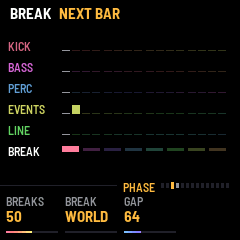
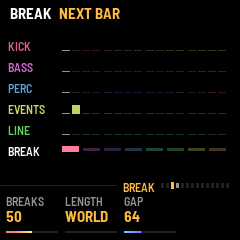
PHASE renamed BREAK (its K2, BREAK, now LENGTH; BUILD's K3 LENGTH too)

Changed region(s): [[0.2625, 0.8167, 0.4375, 0.875], [0.525, 0.7583, 0.6417, 0.8167]]

diff --git a/app/app.c b/app/app.c
@@ -14,7 +14,7 @@
  *   1 MAIN (HOME)            the macros: K1..K4 Energy, Detail, Dark, Drift
  *   2 GROOVE (HOME again)    K1..K4 Tempo (the world's, moved), Root, Fills (how often), Sit out (how often a part
  *                            rests a phrase)
- *   3 PHASE (SEQ)            the breaks: K1..K3 Breaks (how often one comes on its own; 0: only when cued), Break (its
+ *   3 BREAK (SEQ)            the breaks: K1..K3 Breaks (how often one comes on its own; 0: only when cued), Length (its
  *                            bars: the world's, 4..32), Gap (bars after a drop before one comes on its own)
  *   4 BUILD (SEQ again)      the builds: K1 Type (AUTO, or one held), K2 Ending (their last bar's: AUTO, or one held),
  *                            K3 Length (2, 4, 8 bars)
@@ -152,12 +152,12 @@ void app_init(void)
 }
 
 /* ------------------------------------------------------------------ pages --- */
-/* the pages in the panel's order: HOME the whole (MAIN, GROOVE); SEQ the sections (PHASE, BUILD); the top row's middle four the sounds (SEL the
+/* the pages in the panel's order: HOME the whole (MAIN, GROOVE); SEQ the sections (BREAK, BUILD); the top row's middle four the sounds (SEL the
  * kick and the bass, ENV the percussion, LFO the line, EDIT the events and the atmos); FX the echo; GLO the global.
  * A button with two or three pages steps through them */
-enum { PG_MAIN, PG_GROOVE, PG_PHASE, PG_BUILD, PG_KICK, PG_BASS, PG_PERC, PG_EVENTS, PG_LINE, PG_LINE_SEQ, PG_ATMOS, PG_MIX,
+enum { PG_MAIN, PG_GROOVE, PG_BREAK, PG_BUILD, PG_KICK, PG_BASS, PG_PERC, PG_EVENTS, PG_LINE, PG_LINE_SEQ, PG_ATMOS, PG_MIX,
        PG_ECHO, PG_GLOBAL, NPAGE };
-static const char *const PAGE_NAME[NPAGE] = {"MAIN", "GROOVE", "PHASE", "BUILD", "KICK", "BASS", "PERC", "EVENTS", "LINE",
+static const char *const PAGE_NAME[NPAGE] = {"MAIN", "GROOVE", "BREAK", "BUILD", "KICK", "BASS", "PERC", "EVENTS", "LINE",
                                              "LINE SEQ", "ATMOS", "MIX", "ECHO", "GLOBAL"};
 static const uint8_t PAGE_BTN[NPAGE] = {B_HOME, B_HOME, B_SEQ, B_SEQ, B_SEL, B_SEL, B_ENV, B_ENV, B_LFO, B_LFO, B_LFO, B_EDIT,
                                         B_FX, B_GLO};
@@ -184,7 +184,7 @@ static int page_par(int p, int k)
     static const int8_t PAR[NPAGE][4] = {
         {P_ENERGY, P_DETAIL, P_DARK, P_DRIFT},
         {P_TEMPO, P_ROOT, P_FILLS, P_SITOUT},
-        {P_BREAKS, P_BREAK_LEN, P_GAP, -1},              /* PHASE: the breaks */
+        {P_BREAKS, P_BREAK_LEN, P_GAP, -1},              /* BREAK: the breaks */
         {-1, -1, P_BUILD_LEN, -1},                       /* BUILD: K1 the builds' type, K2 their ending, K3 their bars */
         {P_KICK_TUNE, P_KICK_DRIVE, P_KICK_PUNCH, P_KICK_DECAY},   /* (the levels and the sends: MIX's) */
         {P_BASS_BITE, P_BASS_DECAY, P_BASS_LEN, P_BASS_DRIVE},   /* (as LINE's) */

diff --git a/app/dsp/psy.h b/app/dsp/psy.h
@@ -36,7 +36,7 @@ enum { P_ENERGY, P_DETAIL, P_DARK, P_DRIFT,                  /* MAIN: the macros
        P_ECHO_LEVEL, P_ECHO_FB, P_ECHO_TONE, P_ECHO_TIME,    /* ECHO */
        P_ATMOS_LEVEL, P_ATMOS_COLOUR, P_ATMOS_AIR, P_ATMOS_WASH,   /* ATMOS */
        P_LINE_LEVEL, P_LINE_DENSITY, P_LINE_LEN, P_LINE_MUTATE,   /* LINE */
-       P_BREAKS, P_BREAK_LEN, P_BUILD_LEN, P_GAP,            /* PHASE: how often a break comes on its own (0: only
+       P_BREAKS, P_BREAK_LEN, P_BUILD_LEN, P_GAP,            /* BREAK, BUILD: how often a break comes on its own (0: only
                                                               * cued), its bars, its build's, the bars after a drop */
        P_LINE_RANGE, P_LINE_SLIDE, P_LINE_BITE, P_LINE_DECAY,  /* LINE: how far its notes go, how many slide (its
                                                               * pattern page); its modulation's height, its fall */

diff --git a/app/dsp/psy.c b/app/dsp/psy.c
@@ -154,7 +154,7 @@ static const ps_param_t PAR[P_NPARAMS] = {
     {"LEVEL", 0, 100, 50}, {"FEEDBACK", 0, 90, 42}, {"TONE", 0, 100, 50}, {"TIME", 0, 3, 0},
     {"LEVEL", 0, 100, 70}, {"COLOUR", 0, 100, 50}, {"AIR", 0, 100, 50}, {"WASH", 0, 100, 50},
     {"LEVEL", 0, 100, 70}, {"DENSITY", 0, 100, 50}, {"LENGTH", 0, 100, 50}, {"MUTATE", 0, 100, 50},
-    {"BREAKS", 0, 100, 50}, {"BREAK", 0, 4, 0}, {"BUILD", 0, 2, 1}, {"GAP", 0, 3, 1},
+    {"BREAKS", 0, 100, 50}, {"LENGTH", 0, 4, 0}, {"LENGTH", 0, 2, 1}, {"GAP", 0, 3, 1},
     {"RANGE", 0, 100, 50}, {"SLIDE", 0, 100, 50}, {"BITE", 0, 100, 50}, {"DECAY", 0, 100, 50},
     {"SEND", 0, 100, 0}, {"SEND", 0, 100, 50},
     {"DECAY", 0, 100, 50}, {"DECAY", 0, 100, 50}, {"OPEN", 0, 100, 50}, {"DRIVE", 0, 100, 0},

diff --git a/app/docs/MANUAL.md b/app/docs/MANUAL.md
@@ -108,7 +108,7 @@ while the keys' loop plays. Lights, on the global page, sets how bright the glow
 | --- | --- |
 | SELECT | Turns through the 14 pages in order, from MAIN to GLOBAL. It stops at the ends. |
 | HOME | Goes to MAIN. Press again for GROOVE. Press again to go back. |
-| SEQ | Goes to PHASE: the sections. Press again for BUILD. Press again to go back. |
+| SEQ | Goes to BREAK: the sections. Press again for BUILD. Press again to go back. |
 | SEL | Goes to KICK. Press again for BASS. Press again to go back. |
 | ENV | Goes to PERC. Press again for EVENTS. Press again to go back. |
 | LFO | Goes to LINE. Press again for LINE SEQ. Again for ATMOS. Again to go back. On LINE and LINE SEQ, hold it for half a second and the line's phrase is drawn anew from the next bar, instead of moving on. |
@@ -130,7 +130,7 @@ ALGORITHM does something different on each page. On MAIN it takes the kit: forwa
 that are sounding, take another type from the next bar, and the more you turn in a bar the more change (up to three
 parts); back, the kit before, up to eight steps. On GROOVE it picks the shape of the bass. On ECHO it picks the kind of echo. On KICK, BASS, PERC, EVENTS, LINE, LINE SEQ and ATMOS it picks the type of
 that part, one of four to six, and the new type begins from the part's next note. On MIX it picks the type of the
-track TRACK has chosen. On PHASE, BUILD and GLOBAL it does nothing. The name
+track TRACK has chosen. On BREAK, BUILD and GLOBAL it does nothing. The name
 of the choice shows at the left of the rule. Types and shapes are listed on the pages they belong to. They are not
 saved (see 10. Saving).
 
@@ -156,8 +156,8 @@ world is as it is.
   the middle, brings in harsher notes and lets the line creep and reach higher. Lower is lighter and more open. 50.
 - DRIFT: how much changes by itself. Higher redraws more of the one-shot sounds at each phrase, lets the bass open and
   close further, rewrites more of the line, lets breaks come on their own more often (see 8. Sections), lets FILLS,
-  BREAK, GAP and a build's LENGTH stray more often from their lengths to the next one down or up (see GROOVE, PHASE and
-  BUILD). At 0 nothing
+  GAP and the LENGTH of breaks and builds stray more often from their lengths to the next one down or up (see GROOVE,
+  BREAK and BUILD). At 0 nothing
   moves by itself, no break comes on its own, and those lengths are exact; higher, the bass changes its type at more
   of the drops. 50.
 
@@ -186,16 +186,16 @@ ALGORITHM picks the shape of the bass. AUTO leaves it to the world: the kick on 
 three sixteenths after it, and now and then a gallop, an offbeat, or a bar of triplets in the worlds that have them.
 K-B-B-B holds the roll; GALLOP holds a gallop; OFFBEAT holds an offbeat. The new shape begins from the next bar.
 
-### 5.3 PHASE
+### 5.3 BREAK
 
-![The PHASE page: Breaks 50, Break WORLD, Gap 64](img/screen-phase.png "PHASE")
+![The BREAK page: Breaks 50, Length WORLD, Gap 64](img/screen-phase.png "BREAK")
 
 SEQ. The breaks: how the music moves through breaks, builds and drops by itself. Press SAVE and ARP to call them yourself (see 8.
 Sections).
 
 - BREAKS: how often a break comes on its own. At 0 it says CUED: a break comes only when you call it. Higher is more
   often, and DRIFT scales it. 50.
-- BREAK: how long a break that comes on its own usually lasts. WORLD leaves it to the world; or 4, 8, 16 or 32 bars.
+- LENGTH: how long a break that comes on its own usually lasts. WORLD leaves it to the world; or 4, 8, 16 or 32 bars.
   Now and then a break is half or twice as long, more often with DRIFT higher. WORLD.
 - GAP: the fewest bars between a drop and the next break that comes on its own: 32, 64, 96 or 128. After some drops it
   is one step shorter or longer, more often with DRIFT higher. 64.
@@ -551,7 +551,7 @@ phrase are drawn anew, and the colours jump. The music never comes back exactly 
 
 **By itself.** If BREAKS is above 0 and DRIFT is above 0, a break may come as a block of 32 bars begins, and not
 sooner than about GAP bars after the last drop. It lasts BREAK bars (or the world's own), then a build, then the drop come on
-their own. How likely it is depends on BREAKS and DRIFT together: at the defaults, about once in three blocks. See PHASE, 5.3.
+their own. How likely it is depends on BREAKS and DRIFT together: at the defaults, about once in three blocks. See BREAK, 5.3.
 
 **You call them.** All of them wait for the next bar, and they work only while the music is playing.
 
